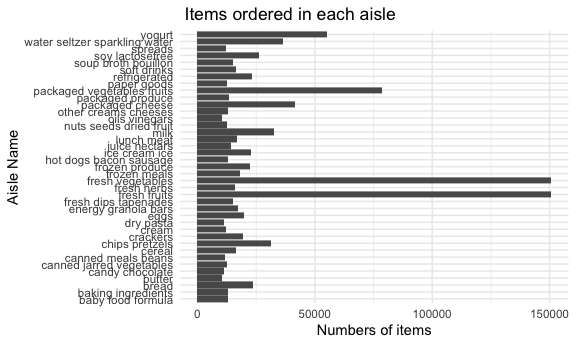
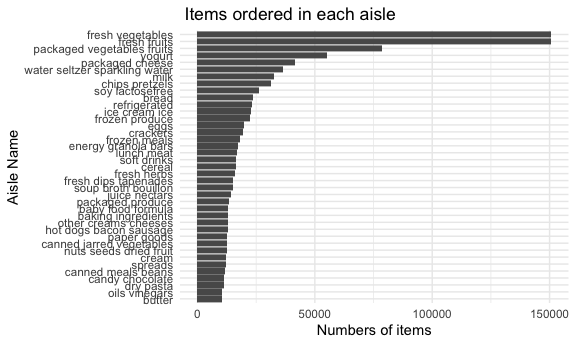
added some plots just learned from the lecture to explain the information behind data more clearly.

Changed region(s): [[0.0312, 0.087, 0.3125, 0.8986], [0.375, 0.087, 0.9688, 0.7536], [0.375, 0.8116, 0.4375, 0.8696]]

diff --git a/p8105_hw3_ah4167.md b/p8105_hw3_ah4167.md
@@ -19,6 +19,10 @@ library(tidyverse)
     ## ℹ Use the conflicted package (<http://conflicted.r-lib.org/>) to force all conflicts to become errors
 
 ``` r
+library(ggridges)
+```
+
+``` r
 knitr::opts_chunk$set(
   fig.width = 6,
   fig.asp = .6,
@@ -81,6 +85,7 @@ instacart|>
   group_by(aisle)|>
   summarize(n_products=n())|>
   filter(n_products>10000)|>
+  mutate(aisle=fct_reorder(aisle,n_products))|>
   ggplot(aes(x=aisle,y=n_products))+
   geom_bar(stat = "identity")+
   coord_flip()+
@@ -301,23 +306,34 @@ locations in NY State.
 ``` r
 brfss_clean_df|>
   filter(year%in%c(2006,2010)&state=="NY")|>
-  ggplot(aes(x=response,y=data_value))+
-  geom_boxplot()+
+  ggplot(aes(x=data_value,y=response))+
+  geom_density_ridges(scale = 0.95)+
   facet_wrap(~year)+
   labs(
     title="Distribution of Data Value by Response in NY State",
-    x = "Response",
-    y = "Data Value"
+    x = "Data value",
+    y = "Response"
   )
 ```
 
+    ## Picking joint bandwidth of 1.94
+
+    ## Picking joint bandwidth of 1.77
+
 <img src="p8105_hw3_ah4167_files/figure-gfm/unnamed-chunk-15-1.png" width="90%" />
 
-We can see from the plots that in New York State, the distribution of
-data_value for responses among locations is very similar, they both have
-the high data value for “Good” response and low data value for the
+We can see from the plots above, in New York State, the distribution of
+data value for responses among locations is roughly similar, they both
+have the high data value for “Good” response and low data value for the
 “Poor” response. However, there are still some differences between those
-two years if we look into the distribution of each response type.
+two years if we look into the distribution of each response type. For
+example, the distribution of data value for “Good” response in 2006 is
+apprantely a bimodal distribution, having two distinct peaks around 27
+and 38, while the distribution of data value for “Good” response in 2010
+only has one peak around 30. Besides, the peaks of the distribution of
+data value for “Excellent” response in both years are around different
+values, too. Those all reflect the inner differences of those two year’s
+data.
 
 ## Problem 3
 
@@ -407,7 +423,7 @@ combine_df|>
   geom_boxplot()+
   facet_wrap(~education)+
   labs(
-    title="Age Distribution by Gender and Education",
+    title="Boxplots for Age Distribution by Gender and Education",
     x = "sex",
     y = "Age"
   )
@@ -415,17 +431,34 @@ combine_df|>
 
 <img src="p8105_hw3_ah4167_files/figure-gfm/unnamed-chunk-19-1.png" width="90%" />
 
-From the boxplots above, the age distributions for men and women are
-almost the same if the participants have a low or high level of
-education. However, among participants with a high school equivalent
-education, the distribution between famale ann male is quite different.
-In the group of participants who have obtained a high school diploma,
-females tend to have a higher average age compared to males, with an
-average age exceeding 60 years, whereas males have an average age of
-just over 50. Besides, participants with higher educational
-qualifications have the youngest average age, around 40 years old, while
-those with lower educational qualifications have a significantly higher
-average age of around 60.
+``` r
+combine_df|>
+  ggplot(aes(x=age,y=sex))+
+  geom_density_ridges(scale = 0.9)+
+  facet_wrap(~education)+
+  labs(
+    title="Density plots for Age Distribution by Gender and Education")
+```
+
+    ## Picking joint bandwidth of 7.91
+
+    ## Picking joint bandwidth of 9.03
+
+    ## Picking joint bandwidth of 7.15
+
+<img src="p8105_hw3_ah4167_files/figure-gfm/unnamed-chunk-19-2.png" width="90%" />
+
+From the plots above, the age distributions for men and women are
+roughly the same if the participants have a “less than high school” or
+“more than high school” level of education. However, among participants
+with a “high school equivalent” education level, the distribution
+between famale ann male is quite different. In the group of participants
+who have obtained a high school diploma, females tend to have a higher
+average age compared to males, with an average age exceeding 60 years,
+whereas males have an average age of just over 50. Besides, participants
+with higher educational qualifications have the youngest average age,
+around 40 years old, while those with lower educational qualifications
+have a significantly higher average age of around 60.
 
 Traditional analyses of accelerometer data focus on the total activity
 over the day. Using your tidied dataset, aggregate across minutes to
